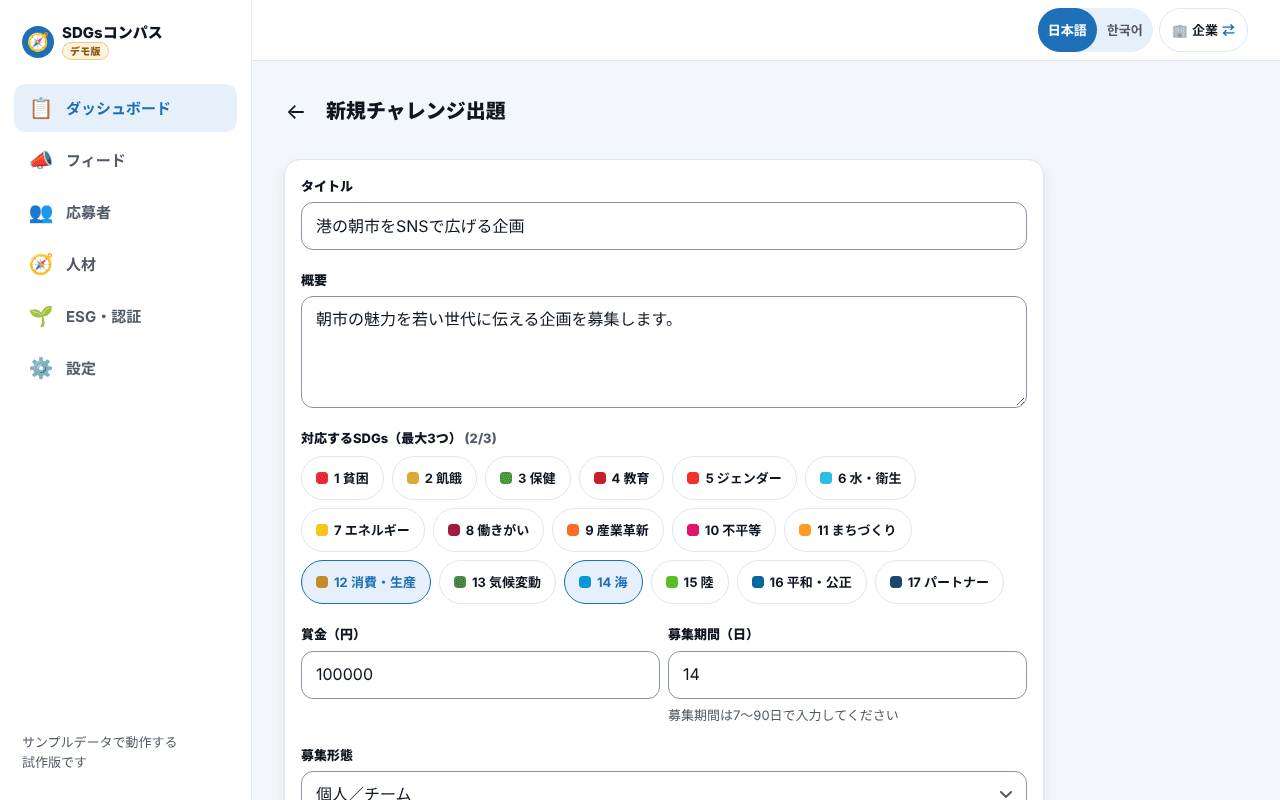
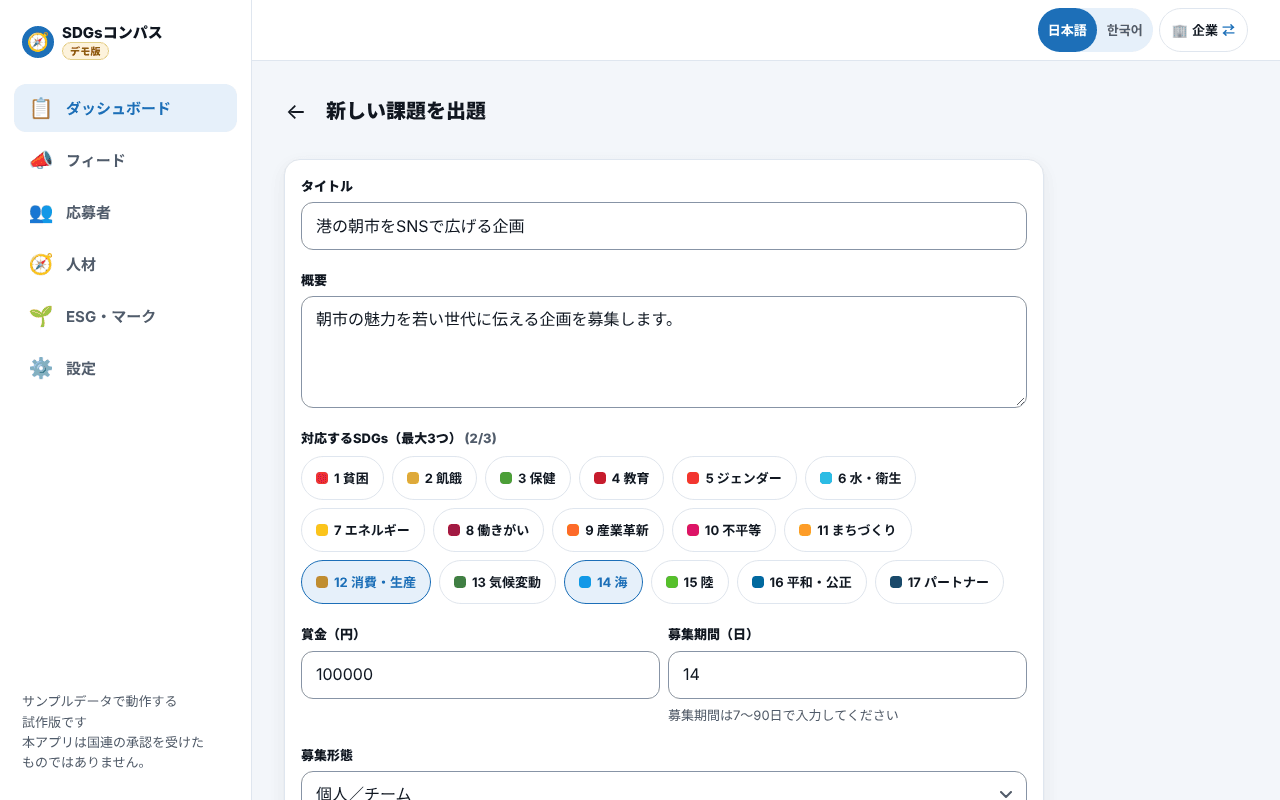
docs: README·목업을 새 표기(取組みマーク·실천 마크·課題)와 ?lang=ja QR 에 맞춰요
- README: 실천 마크(取組みマーク) 표기와 고지 위치, 화면에 「AI」를 쓰지 않는 이유, 일본어 화면 용어(課題),
  QR 주소(?lang=ja)·33×33 칸·"일본어로 바로 시작" 설명, 운영자 화면 입구를 "역할 선택 화면 아래"로 정정, 일본어 개요.
  ERD·표 목록(생성 블록)과 DB 이름 설명은 그대로
- docs/admin.md: 입구 설명 정정(언어 선택 → 역할 선택 화면)
- 목업 19장 다시 찍음(게이트 2 · 학생 7 · 기업 9 · 운영자 이용 현황 1 — 날짜 2026-10-30 고정, 75KB 이하 팔레트 PNG).
  바뀌지 않은 목업은 그대로 두었고, web-b2c-impact-* 는 #22 작업이 다시 찍어요

Claude-Session: https://claude.ai/code/session_01LvWATVHgpvryt6TBs7ZpJZ

Changed region(s): [[0.0, 0.8438, 0.1562, 0.9688], [0.25, 0.125, 0.4062, 0.1562], [0.0938, 0.375, 0.125, 0.4062]]

diff --git a/docs/admin.md b/docs/admin.md
@@ -14,7 +14,7 @@
 | ② SNS 지표 | `/admin/sns/` | X · Instagram · Facebook · YouTube 의 주별 추이, 최신 주 비교 | 운영자가 손으로(또는 CSV 로) 입력한 숫자 | 입력한 행 |
 | ③ 수지·자금 | `/admin/finance/` | 흑자 전환 시기 · 자금 잔액 · 손익분기 기업 수 · 민감도 · 두 시나리오 겹쳐 비교 | 운영자가 입력한 가정 | 시나리오(최대 20개) |
 
-- **들어가는 법**: 첫 화면(언어 선택) 아래의 「運営者画面（デモ）」(ko: 운영자 화면(데모)) 링크 한 곳뿐이에요. 학생·기업 화면의 탭·메뉴에는 두지 않았어요. 역할 선택은 건너뛰고, 위쪽 탭(이용 현황 · SNS 지표 · 수지·자금)으로 옮겨 다녀요.
+- **들어가는 법**: 역할 선택 화면 아래의 「運営者画面（デモ）」(ko: 운영자 화면(데모)) 링크 한 곳뿐이에요. 학생·기업 화면의 탭·메뉴에는 두지 않았어요. 역할 선택은 건너뛰고, 위쪽 탭(이용 현황 · SNS 지표 · 수지·자금)으로 옮겨 다녀요.
 - 모든 화면에 "데모 버전 화면이에요. 실제 운영에서는 로그인과 관리자 권한이 필요해요" 안내가 보여요. 문구는 일본어(기본)·한국어 둘 다 있어요.
 - 모든 그래프에는 **"표로 보기"** 단추(같은 숫자의 표)와 스크린 리더용 설명이 있어요. 모바일 폭에서 누르는 곳은 44px 이상으로 점검했어요.
 
@@ -210,7 +210,7 @@ X · Instagram · Facebook · YouTube 의 분석 화면에 나오는 숫자를 *
 | 계산·문장·문구 (UI 없음) | `packages/core/src/adminUsage.ts` · `adminSns.ts` · `adminFinance.ts` · `adminFinanceText.ts` · `adminFormat.ts` · `adminFixtures.ts`(가상의 샘플) · `messages/admin.ts` · `messages/adminFinance.ts` |
 | 화면 | `apps/web/src/screens/Admin*.tsx` · `apps/web/src/app/admin/**`(주소) · `apps/web/src/components/charts/*`(그래프) · `apps/web/src/app/admin.css` |
 | 저장·보조 | `apps/web/src/lib/adminStore.ts`(저장) · `adminSession.ts` · `adminChart.ts` · `adminFinanceView.ts` · `adminFiles.ts` |
-| 입구 | `apps/web/src/components/Gate.tsx`(언어 선택 화면의 링크) · `lib/routes.ts` · `lib/nav.ts`(탭) |
+| 입구 | `apps/web/src/components/Gate.tsx`(역할 선택 화면의 링크) · `lib/routes.ts` · `lib/nav.ts`(탭) |
 
 시험은 각 파일 옆의 `*.test.ts` 예요. 수지·자금은 숫자를 손으로 계산한 값과 맞춰 보고(반올림·월별 합계·시점 찾기·자금 부족), JSON 의 오류 위치와 이유, 시나리오 저장·선택·비교의 규칙까지 시험해요.
 스키마(`schemaVersion: 1`)와 공개 함수(`parseScenarioJson` · `serializeScenarioJson` · `simulate` · `sensitivity` …)를 바꿀 때는 `schemaVersion` 을 올리고 옛 버전을 읽을 수 있게 남겨요.
